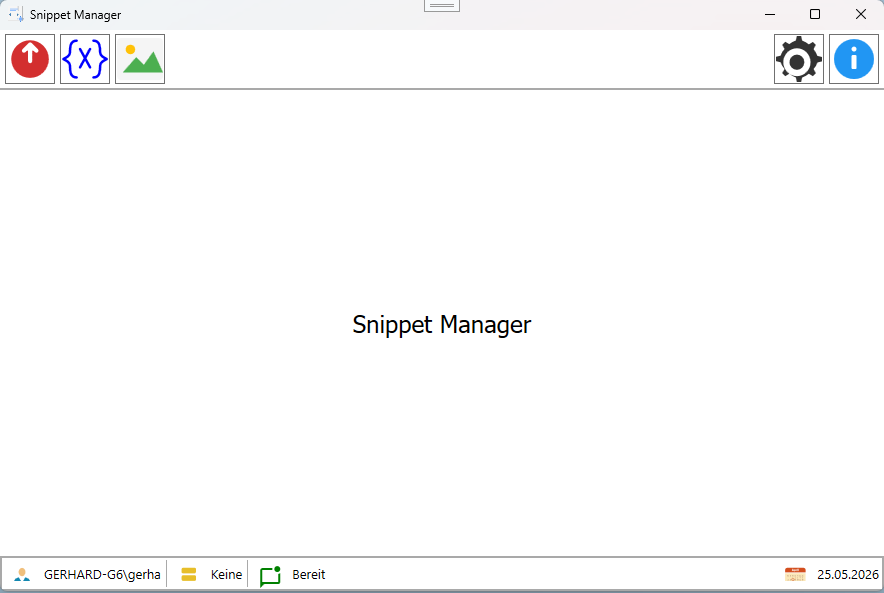
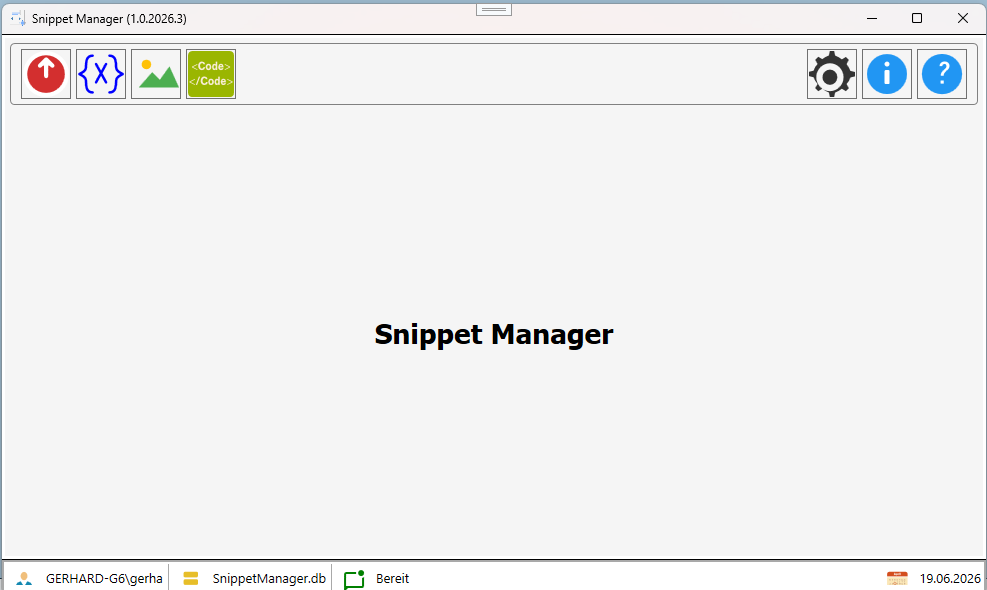
*

Changed region(s): [[0.0, 0.0, 1.0, 0.1831], [0.0, 0.9153, 1.0, 1.0], [0.3665, 0.5186, 0.6414, 0.6102]]

diff --git a/SnippetManager/MainWindow.xaml.cs b/SnippetManager/MainWindow.xaml.cs
@@ -34,6 +34,10 @@ namespace SnippetManager
         {
             this.InitializeComponent();
             this.WindowStartupLocation = WindowStartupLocation.CenterScreen;
+            this.ResizeMode = ResizeMode.CanResizeWithGrip;
+            this.ShowInTaskbar = true;
+            this.MinWidth = 400;
+            this.MinHeight = 300;
 
             WeakEventManager<WindowBase, RoutedEventArgs>.AddHandler(this, "Loaded", this.OnLoaded);
             WeakEventManager<WindowBase, CancelEventArgs>.AddHandler(this, "Closing", this.OnWindowClosing);
